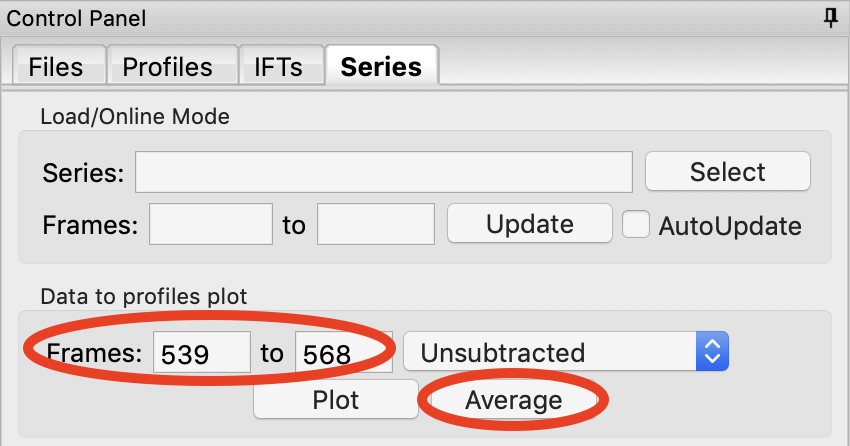
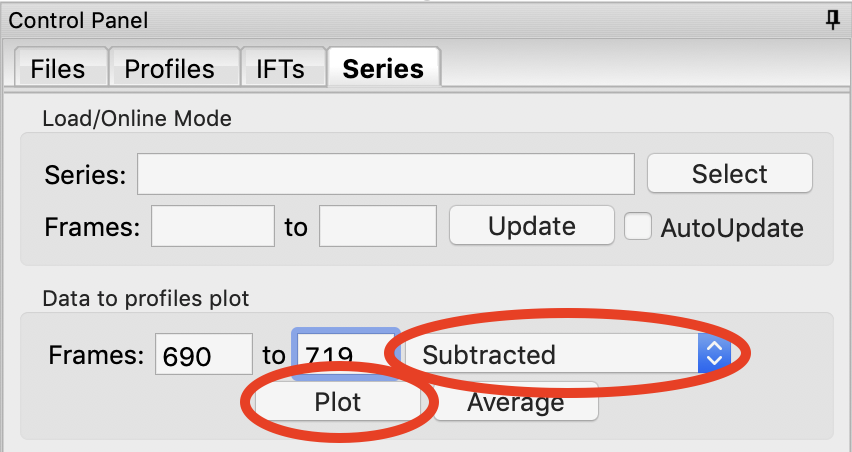
Lots of small edits and fixes in the documentation.

diff --git a/docs/source/tutorial/s1_sec.rst b/docs/source/tutorial/s1_sec.rst
@@ -128,7 +128,7 @@ The written version of the tutorial follows.
     |lc_analysis_buffer_range_png|
 
 #.  You can make fine manual adjustments to the buffer range if necessary. Zoom
-    in on the baseline with the buffer region. Use the up/down arrows for the
+    in on the baseline around the buffer region. Use the up/down arrows for the
     Start and End points to adjust the buffer region a little bit. You will see
     the region on the plot update as you make the changes.
 
@@ -168,7 +168,7 @@ The written version of the tutorial follows.
     Subtracted plot. If it doesn't, click on the 'Subtracted' tab in the plot.
     On this plot there is a new Intensity vs. Frame # curve, representing the
     subtracted data. There is also a set of markers, showing one of the calculated
-    parameters. By default the |Rg| displayed.. The calculated parameters are
+    parameters. By default the |Rg| displayed. The calculated parameters are
     plotted on the right Y axis. You can show |Rg|, I(0), and MW calculated by
     the volume of correlation (Vc) and adjusted Porod volume (Vp) methods. Click
     on the 'Calculated value' menu to switch between the different displays.
@@ -212,7 +212,7 @@ The written version of the tutorial follows.
     *   *Tip:* You can manually adjust the sample region range in the same way
         as the buffer range, using the controls in the Start/End boxes.
 
-#.  Once you are satisfied with the region picked (should be 693-722), click the
+#.  Once you are satisfied with the region picked (should be 690-719), click the
     'To Profiles Plot' button. This averages the selected region and sends the resulting
     average to RAW's Profiles Plot.
 
@@ -335,7 +335,7 @@ The written version of the tutorial follows.
     the ‘Average’ button. That will send the average buffer to the Profiles plot.
 
     *   *Try:* Send the average of the sample range you selected to the main
-        plot (693 to 722), carry out the subtraction, and verify it’s the same as
+        plot (690 to 719), carry out the subtraction, and verify it’s the same as
         the curve produced by the ‘To Profiles Plot’ button in the LC Series Analysis
         panel.
 
@@ -359,8 +359,8 @@ The written version of the tutorial follows.
     line to the Calc Markers by selecting line style ‘-’ (solid), and adjust
     the line color to your liking.
 
-    *   *Tip:* You can do the same thing to adjust the colors of the scattering profiles in
-        the Profiles and IFT control tabs.
+    *   *Tip:* You can do the same thing to adjust the colors of the scattering
+        profiles and IFTs in the Profiles and IFT control tabs.
 
     |series_color_png|
 
@@ -387,7 +387,7 @@ The written version of the tutorial follows.
 
     |series_panel_png|
 
-#.  The SEC-SAS run will automatically load. Note that because SAXS data can be
+#.  The SEC-SAXS run will automatically load. Note that because SAXS data can be
     reported with an arbitrary intensity scale, the total intensity of this
     series is much larger than the previous series.
 
@@ -403,11 +403,9 @@ The written version of the tutorial follows.
 
     |series_scale_png|
 
-#.  Hide the first series (**profiles_001**).
+#.  Hide the first series (**profile_001**).
 
 #.  Select a good buffer region, and calculate the |Rg| and MW across the peak for the BSA.
-
-    *   *Warning:* Don’t forget to star the curve you want to set/update parameters for!
 
     *   *Tip:* If you hover your mouse cursor over the info icon, you will see the buffer
         range and window size used to calculate the parameters.
@@ -427,7 +425,7 @@ The written version of the tutorial follows.
     *   *Try:* Open the **.csv** file you just saved in Excel or Libre/Open Office Calc.
 
 #.  Select both items in the Series control panel list, and save them in the **sec_data**
-    folder. This saves the Series plot data in a form that can be quickly loaded by RAW.
+    folder. This saves the series data in a form that can be quickly loaded by RAW.
 
     *   *Try:* Clear the Series data and then open one of your saved files from the Files tab
         using either the “Plot” or “Plot Series” button.

diff --git a/docs/source/tutorial/s2_efa.rst b/docs/source/tutorial/s2_efa.rst
@@ -114,7 +114,7 @@ The written version of the tutorial follows.
     *   *Note:* For the Forward EFA plot, SVD is run on just the first two frames, then
         the first three, and so on, until all frames in the range are included. As more
         frames are added, the singular values change, as shown on the plot. When a singular
-        values starts increasingly sharply, it indicates that there is a new scattering
+        value starts increasingly sharply, it indicates that there is a new scattering
         component in the scattering profile measured at that point. So, for the first ~150
         frames, there are no new scattering components (i.e. just buffer scattering). At
         frame ~147, we see the first singular value (the singular value with index 0,
@@ -129,7 +129,7 @@ The written version of the tutorial follows.
 
     *   *Note:* For the Backward EFA plot, SVD is run on just the last two frames, then the
         last three, and so on, until all frames in the range are included. As more frames are
-        added, the singular values change, as shown on the plot. When a singular values starts
+        added, the singular values change, as shown on the plot. When a singular value starts
         increasingly sharply (as seen from right to left), it indicates that there is a new
         scattering component in the scattering profile measured at that point.
 
@@ -167,7 +167,7 @@ The written version of the tutorial follows.
 
 #.  To see these changes on the Forward and Backward EFA plots, click the “Back” button
     at the bottom right of the page. Verify that all of your start and end values are
-    close to where the components become significant, as discussed in Steps 12 and 13.
+    close to where the components become significant, as discussed in Steps 8 and 9.
 
 #.  Click the “Next” button to return to the final stage of the EFA analysis.
 
@@ -204,10 +204,10 @@ The written version of the tutorial follows.
             Forward and Backward EFA values (Steps 12-13).
 
         #.  Confirm that your chi-squared plot is close to 1, without any major
-            spikes (Step 21).
+            spikes.
 
         #.  Confirm that your concentrations are not significantly altered by
-            constraining the concentration to be positive (Steps 22-23).
+            constraining the concentration to be positive (Steps 17-19).
 
 #.  Click the “Save EFA Data (not profiles)” to save the EFA data, including the SVD,
     the Forward and Backward EFA data, the chi-squared, and the concentration, along

diff --git a/docs/source/tutorial/s2_align.rst b/docs/source/tutorial/s2_align.rst
@@ -25,7 +25,7 @@ SUPCOMB from the ATSAS suite can be used to align two PDB files. In this context
 one model (the reference) is the high resolution structure while the other
 (the target) is the bead model reconstruction.
 
-#.  Open the SUPCOMB window by selection Tools->ATSAS->SUPCOMB from the menu bar
+#.  Open the SUPCOMB window by selecting Tools->ATSAS->SUPCOMB from the menu bar
 
     |align_supcomb_menu_png|
 
@@ -46,7 +46,7 @@ one model (the reference) is the high resolution structure while the other
 
     |align_supcomb_select_png|
 
-#.  Click the start button, SUPCOMB will run.
+#.  Click the start button. SUPCOMB will run.
 
     |align_supcomb_start_png|
 
@@ -68,7 +68,7 @@ DENSS include a native tool for aligning two electron density files (.mrc)
 or an electron density to a PDB file. In this context, one model (the reference)
 is the high resolution
 
-#.  Open the Electron Density Alignment window by selection Tools->Electron
+#.  Open the Electron Density Alignment window by selecting Tools->Electron
     Density (DENSS) Alignment from the menu bar
 
     |align_denss_menu_png|
@@ -86,11 +86,11 @@ is the high resolution
         path to the file.
 
 #.  Use the Target 'Select' button to select
-    **reconstruction_data/gi_complete/gi_dammif/glucose_isomerase_refine.mrc**
+    **reconstruction_data/gi_complete/gi_denss/glucose_isomerase_refine.mrc**
 
     |align_denss_select_png|
 
-#.  Click the start button, DENSS alignement will run.
+#.  Click the start button. DENSS alignement will run.
 
     *   *Tip:* If there is already a file in the folder with the aligned output
         filename you will get a prompt to overwrite it.
@@ -113,8 +113,8 @@ is the high resolution
     *   *Number of cores:* Number of cores to use during alignment
     *   *Enantiomorphs:* Whether to generate enantiomorphs of the Target before doing
         the alignment.
-    *   *Center reference:* Whether to center the reference model at the origin
-        If used,this creates a **<reference_name>_centered.pdb** file in the same
+    *   *Center reference:* Whether to center the reference model at the origin.
+        If used, this creates a **<reference_name>_centered.pdb** file in the same
         folder as the reference file.
     *   *PDB calc. resolution:* The resolution of the density map created from
         the Reference PDB model to compare with the Target model. This has

diff --git a/docs/source/tutorial/s2_denss.rst b/docs/source/tutorial/s2_denss.rst
@@ -107,33 +107,33 @@ The written version of the tutorial follows.
 
 #.  The results summary shown in Summary tab is automatically saved as a
     **<prefix>_denss_results.csv** csv file, e.g. for this data as
-    **lysozyme_denss_results.csv**. All the plots shown on the individual model
+    **lglucose_isomerase_denss_results.csv**. All the plots shown on the individual model
     tabs are automatically saved as a multi-page pdf file with the same name.
 
 #.  Click the “Close” button when you are finished looking at the results and reconstructions.
 
 #.  The results from the individual DENSS runs are saved in the selected output folder as
     **<prefix>_xx.mrc** where *xx* corresponds to the run number: 01, 02, etc. For this
-    tutorial that would be **lysozyme_01.mrc**, **lysozyme_02.mrc**, etc.
+    tutorial that would be **lglucose_isomerase_01.mrc**, **lglucose_isomerase_02.mrc**, etc.
 
 #.  If averaging was done, final average density is saved in the selected output
-    folder as **<prefix>_aver.mrc**. For this tutorial, that would be **lysozyme_aver.mrc**.
+    folder as **<prefix>_aver.mrc**. For this tutorial, that would be **lglucose_isomerase_aver.mrc**.
 
 #.  If refinement was done, the final refined density is saved in the selected
     output folder as **<prefix>_refine.mrc**. For this tutorial that would be
-    **lysozyme_refine.mrc**.
+    **lglucose_isomerase_refine.mrc**.
 
 #.  If alignment to a reference model was done, the files aligned
     depend on what other processing was done.
 
     *   If refinement was done, then there will be a single file named
-        **<prefilx>_refine_aligned.mrc**. For this tutorial,
+        **<prefix>_refine_aligned.mrc**. For this tutorial,
         **glucose_isomerase_refine_aligned.mrc**.
 
     *   If no refinement is done but averaging is done, then the
-        averaged moel is aligned. The associated filenames would
+        averaged model is aligned. The associated filenames would
         be **<prefix>_average_aligned.mrc**. For this tutorial,
-        **glucose_isomerase_averaged_aligned.mrd**.
+        **glucose_isomerase_averaged_aligned.mrc**.
 
     *   If no refinement or averaging is done, then every calculated
         model is aligned. The associated filenames would be

diff --git a/docs/source/tutorial/s2_dammif.rst b/docs/source/tutorial/s2_dammif.rst
@@ -50,7 +50,7 @@ The written version of the tutorial follows.
 #.  If it's not already checked, check the "Align and cluster envelopes (damclust)"
     checkbox.
 
-#.  RAW can align the dammif/n output with a PDB structure using SUPCOMB from the
+#.  RAW can align the DAMMIF/N output with a PDB structure using SUPCOMB from the
     ATSAS package. To do so, check the 'Align output to PDB' box and select
     the **1XIB_4mer.pdb** file in the **reconstruction_data/gi_complete** folder.
 
@@ -72,8 +72,8 @@ The written version of the tutorial follows.
     *   Some settings are accessible in the panel, and all settings can be changed in the
         advanced settings panel.
 
-#.  Wait for all of the DAMMIF runs and DAMAVER to finish. Depending on the speed of your
-    computer this could take a bit.
+#.  Wait for all of the DAMMIF runs, DAMAVER, DAMCLUST, and alignment to finish.
+    Depending on the speed of your computer this could take a bit.
 
 #.  Once the reconstructions are finished, the window should automatically switch to the
     results tab. If it doesn’t, click on the results tab.
@@ -81,7 +81,7 @@ The written version of the tutorial follows.
     |dammif_results_png|
 
 #.  The results panel summarizes the results of the reconstruction run. At the top of the
-    panel there is the ambimeter evaluation of how ambiguous the reconstructions might be
+    panel there is the AMBIMETER evaluation of how ambiguous the reconstructions might be
     (see previous tutorial section). If DAMAVER was run, there are results from the normalized
     spatial discrepancy (NSD), showing the mean and standard deviation of the NSD, as well as
     how many of the reconstructions were included in the average. If DAMAVER was run on 3 or
@@ -121,7 +121,7 @@ The written version of the tutorial follows.
 
 #.  Click and drag the model to spin it.
 
-    *   Note: For glucose_isomerase, it should look more or less like a flattened sphere.
+    *   Note: For glucose isomerase, it should look more or less like a flattened sphere.
 
 #.   Right click and drag the model to zoom in and out.
 

diff --git a/docs/source/saxs/saxs_bead_models.rst b/docs/source/saxs/saxs_bead_models.rst
@@ -176,7 +176,7 @@ SAXS data contains very limited information, both because it is measured at
 relatively low *q*, and because it is measured from a large number of particles
 in solution oriented at random angles. The SAXS scattering profile represents the
 scattering from a single particle, averaged over all possible orientations.
-This practical consequence of this is that there are often several possible
+The practical consequence of this is that there are often several possible
 shapes that could generate the same (or so similar as to be indistinguishable
 within experimental noise) scattering profiles. As such, it may simply not
 be possible to generate a  bead model reconstruction from a dataset that
@@ -205,7 +205,7 @@ Criteria for a good DAMMIF/N reconstruction
 *   Model |Rg| and |Dmax| close to values from P(r) function for all models
 *   M.W. estimated from model volume close to expected M.W.
 
-More about each of these criteria can be found below.
+More about these criteria can be found below.
 
 Ambiguity
 *************
@@ -288,7 +288,7 @@ Model fit and parameters
 *****************************
 
 Each model has the following parameters that can be used to evaluate the success
-of an individual reconstruction: :math:`\chi^2`, |Rg|, |Dmax|, volume,  molecular
+of an individual reconstruction: :math:`\chi^2`, |Rg|, |Dmax|, volume, molecular
 weight estimated from volume, and the normalized residual of the model fit to
 the data. For a good fit to the data, the model :math:`\chi^2` should be close
 to 1 and the normalized residual between the model fit and the data should
@@ -308,7 +308,6 @@ it is an indication that your reconstruction isn't a good representation of what
 is in solution, and shouldn't be trusted. While there's no hard and fast rule
 here on how closely |Rg| and |Dmax| should agree, my experience is generally
 that for high quality data |Rg| agrees to better than ~5% and |Dmax| to ~10%.
-
 
 The volume is reported for each bead model, but it is usually easier to
 compare the molecular weight calculated from that volume with the expected

diff --git a/docs/source/tutorial/s2_baseline.rst b/docs/source/tutorial/s2_baseline.rst
@@ -53,7 +53,7 @@ Linear Baseline Correction
 
 #.  If you look closely, it looks like the baseline may level off a little bit
     at the start of the series curve. So we will select a start range closer
-    to the peak. Clik the 'Pick' button for the baseline correction start region
+    to the peak. Click the 'Pick' button for the baseline correction start region
     and select a start region about halfway to the peak. Roughly 30-50 frames
     is a good length for the start and end regions.
 
@@ -106,7 +106,7 @@ Integral Baseline Correction
 ******************************
 
 Integral baseline correction proceeds very similarly to linear baseline correction.
-Here we provide detail only where the proceedures are different.
+Here we provide detail only where the procedures are different.
 
 #.  Clear all of the data in RAW. Load the **baseline.hdf5** SEC data in the
     **sec_data** folder.
@@ -146,7 +146,7 @@ Here we provide detail only where the proceedures are different.
     values are not brought up.
 
     *   *Note:* You can change the intensity display to individual *q* values or
-        a *q* range and look at different points in q to try figure out which q
+        a *q* range and look at different points in *q* to try figure out which *q*
         values are causing the issue.
 
     |lc_analysis_baseline_overcorrect_png|

diff --git a/docs/source/tutorial/s1_mw.rst b/docs/source/tutorial/s1_mw.rst
@@ -41,12 +41,12 @@ The written version of the tutorial follows.
 
     *   *Note:* Neither the I(0) Ref. MW panel nor the Abs. MW panel should be reporting a MW.
 
-    *   *Note:* If you have ATSAS installed an accessible to RAW, you should see
-        see panels with MW, as in the image below. If you don't have ATSAS
+    *   *Note:* If you have ATSAS installed and accessible to RAW, you should see
+        six panels with MW, as in the image below. If you don't have ATSAS
         installed you will see just four panels, the rightmost panel in each
         row will be missing.
 
-    *   *Tip:* To learn more about any of the methods, lick on the "More Info"
+    *   *Tip:* To learn more about any of the methods, click on the "More Info"
         button.
 
     |mw_png|

diff --git a/docs/source/tutorial/s2_gnom.rst b/docs/source/tutorial/s2_gnom.rst
@@ -60,12 +60,6 @@ The written version of the tutorial follows.
 
     *   *Note:* |Dmax| is in units of Å.
 
-    *   *Tip:* Recall that we want the following qualities in a P(R) function:
-
-        #.  No negative values.
-        #.  A gentle approach to |Dmax| (not suddenly forced down).
-        #.  Minimal oscillation.
-
 #.  Return the |Dmax| value to that found by DATGNOM by clicking the “DATGNOM” button.
     |Dmax| should be 101. By default, GNOM forces the P(r) function to zero at |Dmax|.
     For a high quality data set and a good choice of |Dmax|, P(r) should go to zero

diff --git a/docs/source/saxs/saxs_ift.rst b/docs/source/saxs/saxs_ift.rst
@@ -200,7 +200,7 @@ longer valid. In those cases, the lipid/detergent may have a lower electron
 density than the buffer. As scattering is measured relative to the solvent,
 this lower density will appear as negative electron pairs in the P(r) function.
 For example, proteins embedded in lipid nanodiscs have a characteristic dip
-in the P(r) function that can often go negative.
+in the P(r) function that can go negative.
 
 
 Determining a good P(r) function using GNOM

diff --git a/docs/source/tutorial/s1_guinier.rst b/docs/source/tutorial/s1_guinier.rst
@@ -31,8 +31,7 @@ The written version of the tutorial follows.
         when the Guinier window is opened for the first time.
 
     *   *Note:* The |Rg| value is in units of 1/q (e.g. if q is in Å\ :sup:`-1`
-        then |Rg| is in Å), while the two :math:`qR_g` boxes give, left to right,
-        :math:`q_{min}R_g` and :math:`q_{max}R_g` respectively.
+        then |Rg| is in Å).
 
     |guinier_gi_png|
 

diff --git a/docs/source/tutorial/s2_svd.rst b/docs/source/tutorial/s2_svd.rst
@@ -55,7 +55,7 @@ The written version of the tutorial follows.
     to using Subtracted data.
 
     *   *Note:* The blue points are in the plot on the left are the region being
-        used for SVD, while the red points shows the rest of the SEC-SAXS curve.
+        used for SVD, while the red points show the rest of the SEC-SAXS curve.
 
     |svd_panel_sub_png|
 
